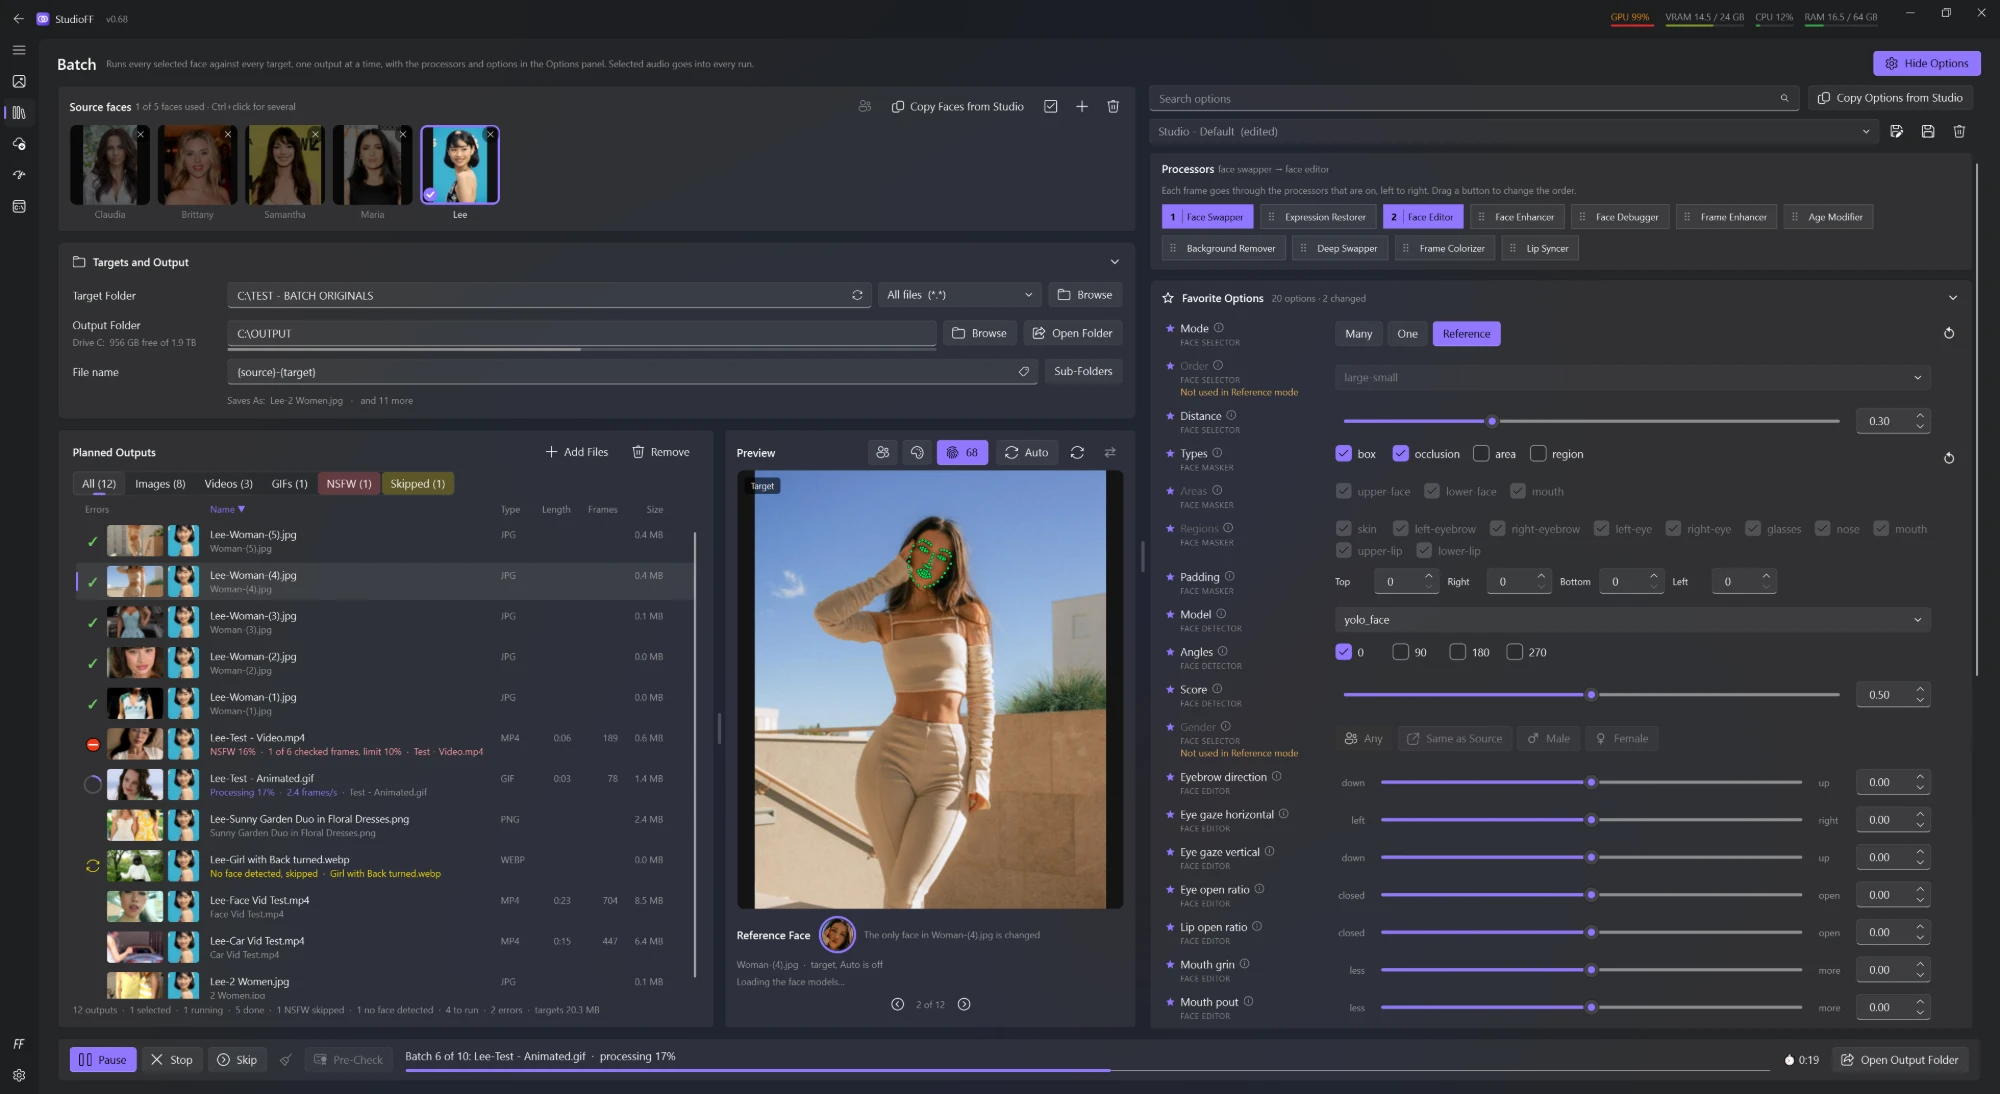
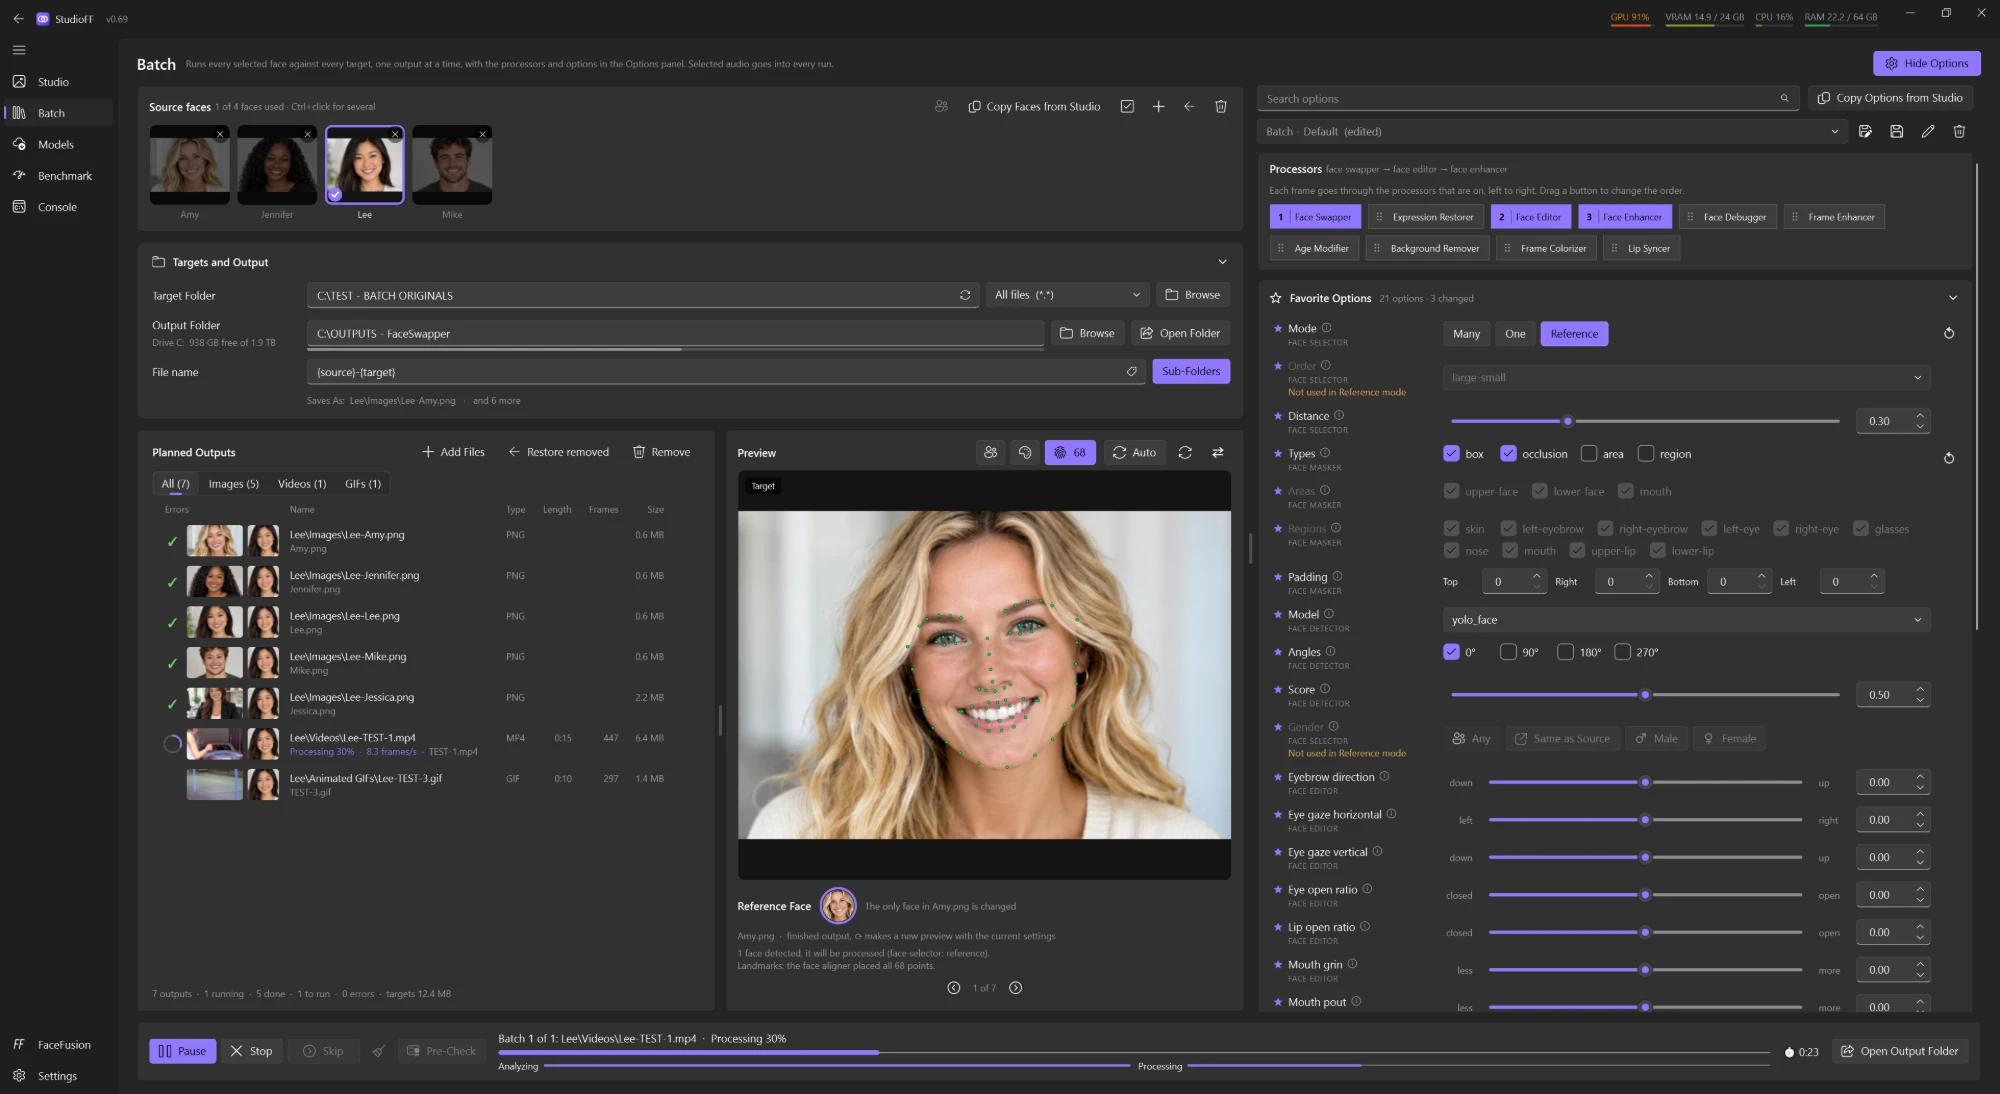
README: new screenshots, Settings in place of the FaceFusion page

diff --git a/README.md b/README.md
@@ -16,9 +16,9 @@ FaceFusion itself is not included: install FaceFusion v4 separately, then point 
 
 | Before | After |
 | --- | --- |
-| ![Before: target with mapped faces](docs/images/before.webp) | ![After: result with the faces swapped](docs/images/after.webp) |
-| **Batch** | **FaceFusion** |
-| ![Batch: every source face against every target, with a live preview](docs/images/batch.webp) | ![FaceFusion: tested version, system info and FaceFusion connection](docs/images/setup.webp) |
+| ![Before: target with the faces found](docs/images/before.webp) | ![After: result with a mapped face swapped](docs/images/after.webp) |
+| **Batch** | **Settings** |
+| ![Batch: every source face against every target, with a live preview](docs/images/batch.webp) | ![Settings: updates, starting folders, processors, appearance and performance](docs/images/settings.webp) |
 
 ## Features
 
